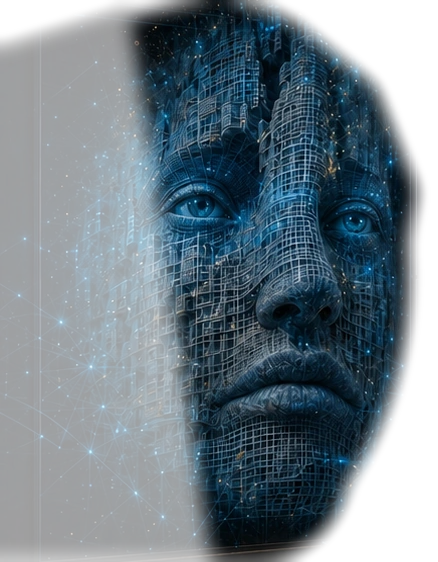
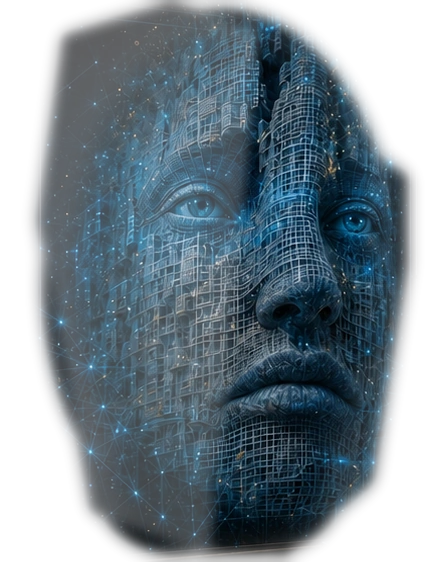
Refine face cutout levitation

diff --git a/assets/css/platform-v2.css b/assets/css/platform-v2.css
@@ -7849,13 +7849,13 @@ body.rw-v2-ready:not(.app-open) .rw-v2-assistant-face-cutout{
 
 body.rw-v2-ready:not(.app-open) .rw-v2-assistant-face-plate{
   z-index:117!important;
-  background-image:url("../images/private-command-center-assistant-face-cleanplate.png?v=20260715-face-cutout-1")!important;
+  background-image:url("../images/private-command-center-assistant-face-cleanplate.png?v=20260715-face-cutout-2")!important;
   opacity:1!important;
 }
 
 body.rw-v2-ready:not(.app-open) .rw-v2-assistant-face-cutout{
   z-index:118!important;
-  background-image:url("../images/private-command-center-assistant-face-cutout.png?v=20260715-face-cutout-1")!important;
+  background-image:url("../images/private-command-center-assistant-face-cutout.png?v=20260715-face-cutout-2")!important;
   opacity:.98!important;
   filter:saturate(1.02) contrast(1.01) drop-shadow(0 0 18px rgba(92,205,255,.10))!important;
   animation:rwAssistantHeadLevitate 12.8s ease-in-out infinite both!important;
@@ -7917,16 +7917,16 @@ body.rw-v2-ready:not(.app-open) .rw-v2-assistant-blink.is-playing .rw-v2-assista
     transform:translate3d(0,0,0) rotateZ(0deg) rotateY(0deg) rotateX(0deg) scale(1);
   }
   18%{
-    transform:translate3d(6px,-7px,0) rotateZ(.16deg) rotateY(-1deg) rotateX(.38deg) scale(1.002);
+    transform:translate3d(3px,-4px,0) rotateZ(.10deg) rotateY(-1.55deg) rotateX(.62deg) scale(1.0015);
   }
   39%{
-    transform:translate3d(-5px,-3px,0) rotateZ(-.14deg) rotateY(.85deg) rotateX(-.34deg) scale(1.001);
+    transform:translate3d(-3px,-2px,0) rotateZ(-.09deg) rotateY(1.25deg) rotateX(-.54deg) scale(1.0008);
   }
   63%{
-    transform:translate3d(4px,6px,0) rotateZ(.12deg) rotateY(.55deg) rotateX(-.65deg) scale(1.002);
+    transform:translate3d(2px,4px,0) rotateZ(.08deg) rotateY(.90deg) rotateX(-1.05deg) scale(1.0012);
   }
   84%{
-    transform:translate3d(-6px,3px,0) rotateZ(-.16deg) rotateY(-.7deg) rotateX(.24deg) scale(1.001);
+    transform:translate3d(-3px,2px,0) rotateZ(-.10deg) rotateY(-1.10deg) rotateX(.46deg) scale(1.0008);
   }
 }
 

diff --git a/index.html b/index.html
@@ -8,9 +8,9 @@
 <title>Rafal Wilk Digital Workshop ©</title>
 <link rel="preload" as="image" fetchpriority="high" href="assets/images/private-command-center-hero-polo-beads.webp?v=20260713-polo-beads-1"/>
 <link rel="preload" as="image" href="assets/images/private-command-center-human-eyelid-blink-sprite.png?v=20260715-human-blink-3"/>
-<link rel="preload" as="image" href="assets/images/private-command-center-assistant-face-cleanplate.png?v=20260715-face-cutout-1"/>
-<link rel="preload" as="image" href="assets/images/private-command-center-assistant-face-cutout.png?v=20260715-face-cutout-1"/>
-<link rel="preload" as="style" href="assets/css/platform-v2.css?v=20260715-face-cutout-1"/>
+<link rel="preload" as="image" href="assets/images/private-command-center-assistant-face-cleanplate.png?v=20260715-face-cutout-2"/>
+<link rel="preload" as="image" href="assets/images/private-command-center-assistant-face-cutout.png?v=20260715-face-cutout-2"/>
+<link rel="preload" as="style" href="assets/css/platform-v2.css?v=20260715-face-cutout-2"/>
 <style id="rw-critical-home-boot">
   html{background:#05080d}
   body:not(.rw-v2-ready):not(.app-open){
@@ -4540,7 +4540,7 @@ select.rw-input{appearance:none;-webkit-appearance:none;background-image:linear-
   setTimeout(install, 2200);
 })();
 </script>
-<link rel="stylesheet" href="assets/css/platform-v2.css?v=20260715-face-cutout-1">
+<link rel="stylesheet" href="assets/css/platform-v2.css?v=20260715-face-cutout-2">
 <style id="rw-hide-title-clock-override">
 body.rw-v2-ready:not(.app-open) header.rw-header,
 body.rw-v2-ready:not(.app-open) .rw-v2-hero-poster .rw-v2-brand-lockup,
@@ -4550,4 +4550,4 @@ body.rw-v2-ready:not(.app-open) .rw-v2-wall-clock{
 }
 </style>
 <script src="assets/js/contact-config.js?v=20260708-18"></script>
-<script src="assets/js/platform-v2.js?v=20260715-face-cutout-1"></script>
+<script src="assets/js/platform-v2.js?v=20260715-face-cutout-2"></script>